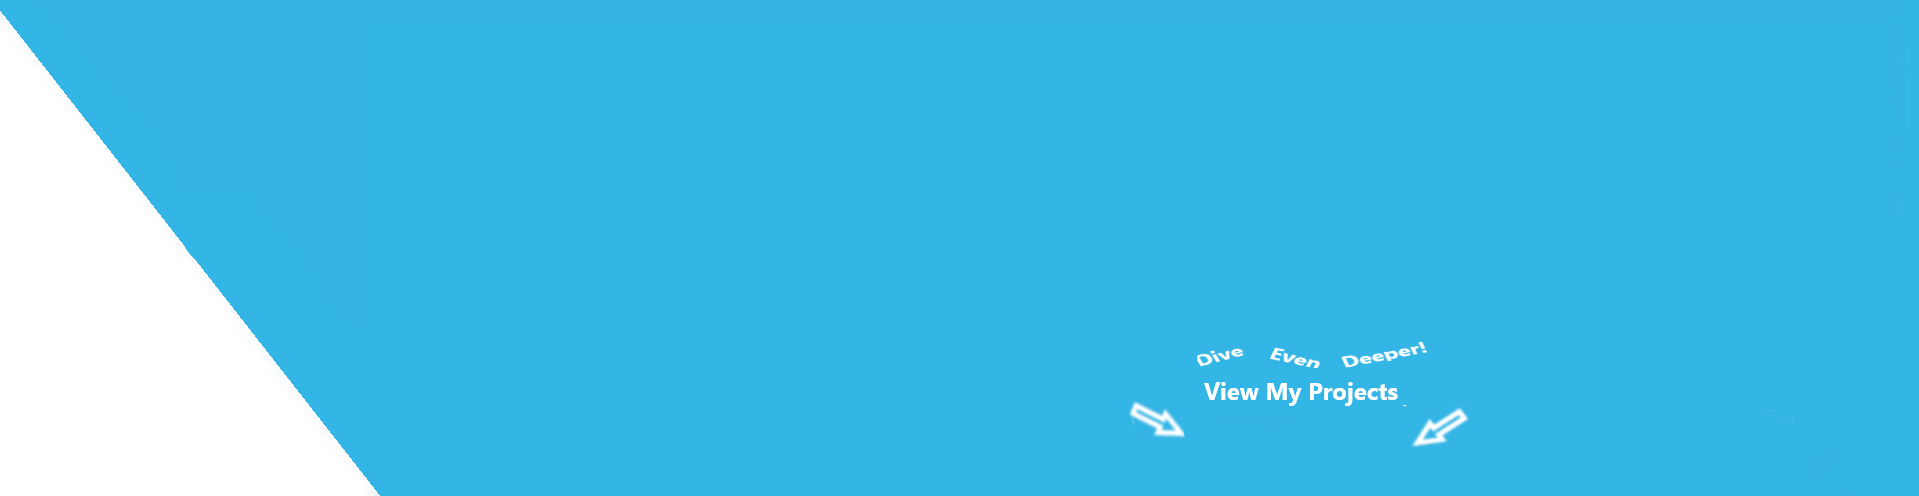
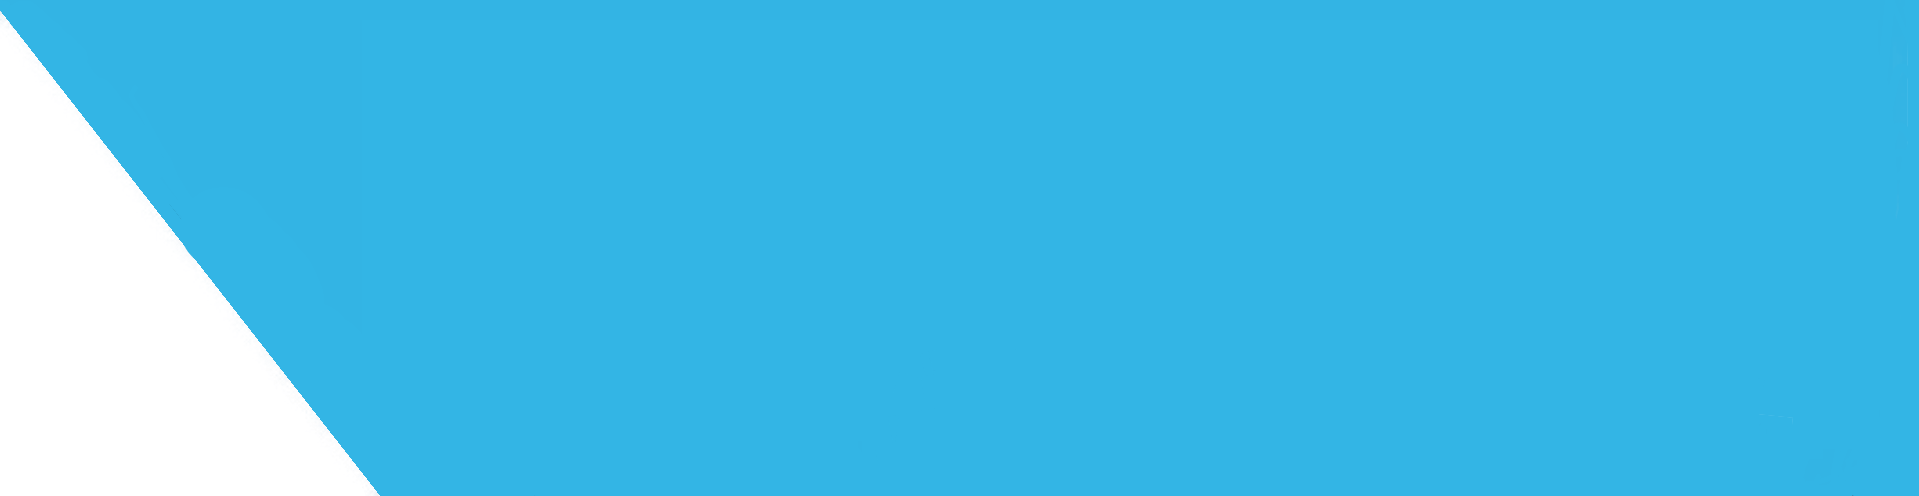
Addjusted mobile responsiveness on all screen sizes.

diff --git a/src/index.css b/src/index.css
@@ -549,9 +549,12 @@ body::-webkit-scrollbar-thumb:hover {
         left: 1096px;
         bottom: 472px;
     }
+    #ViewProjectsBtn {
+        display: none;
+    }
 }
 
-/* Large Desktops 2547px - ??? */
+/* Large Desktops 2547px - 3000px */
 
 @media screen and (max-width:2547px) {
     #AboutContext {
@@ -559,11 +562,17 @@ body::-webkit-scrollbar-thumb:hover {
         left: 1096px;
         bottom: 472px;
     }
+    #ViewProjectsBtn {
+        display: none;
+    }
 }
 
 /* Desktops 1791 - 1928 */
 
 @media screen and (max-width:1791px) {
+    #ViewProjectsBtn {
+        display: none;
+    }
     #MainNavBrand {
         font-size: 4em;
     }
@@ -632,6 +641,15 @@ body::-webkit-scrollbar-thumb:hover {
 
 @media screen and (max-width:1424px) {
     #ViewProjectsBtn {
+        position: absolute;
+        background: url(/assets/site-backgrounds/btnViewProjects.png) no-repeat;
+        left: 878px;
+        bottom: 546px;
+        height: 38px;
+        width: 180px;
+        font-size: 1.6em;
+        border: none;
+        color: #ffffff;
         display: none;
     }
     #MainNavBrand {
